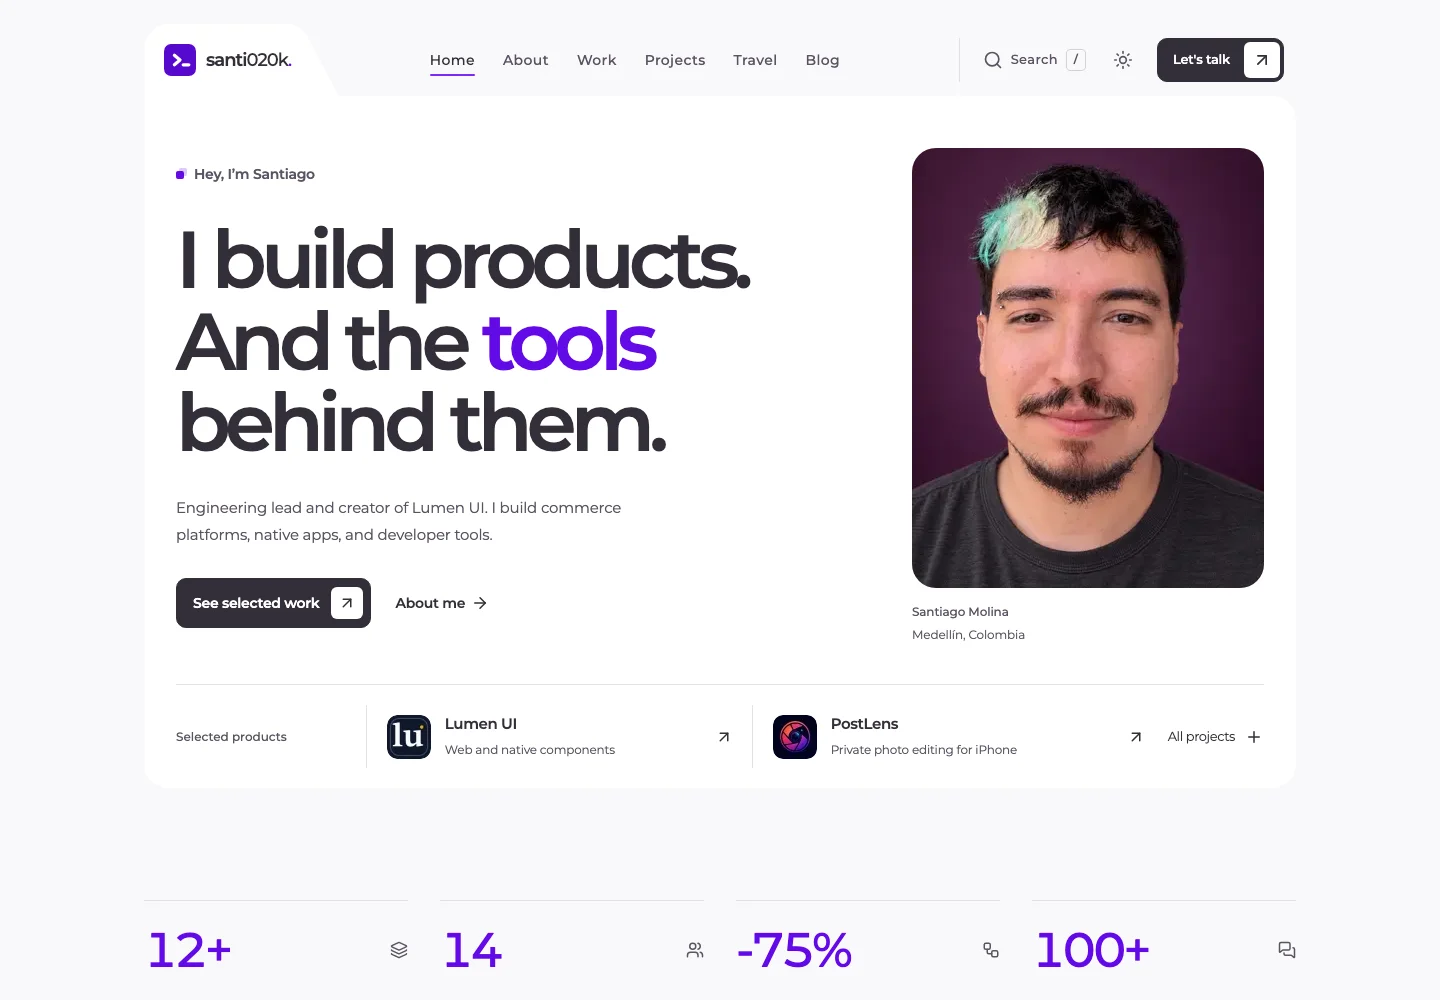
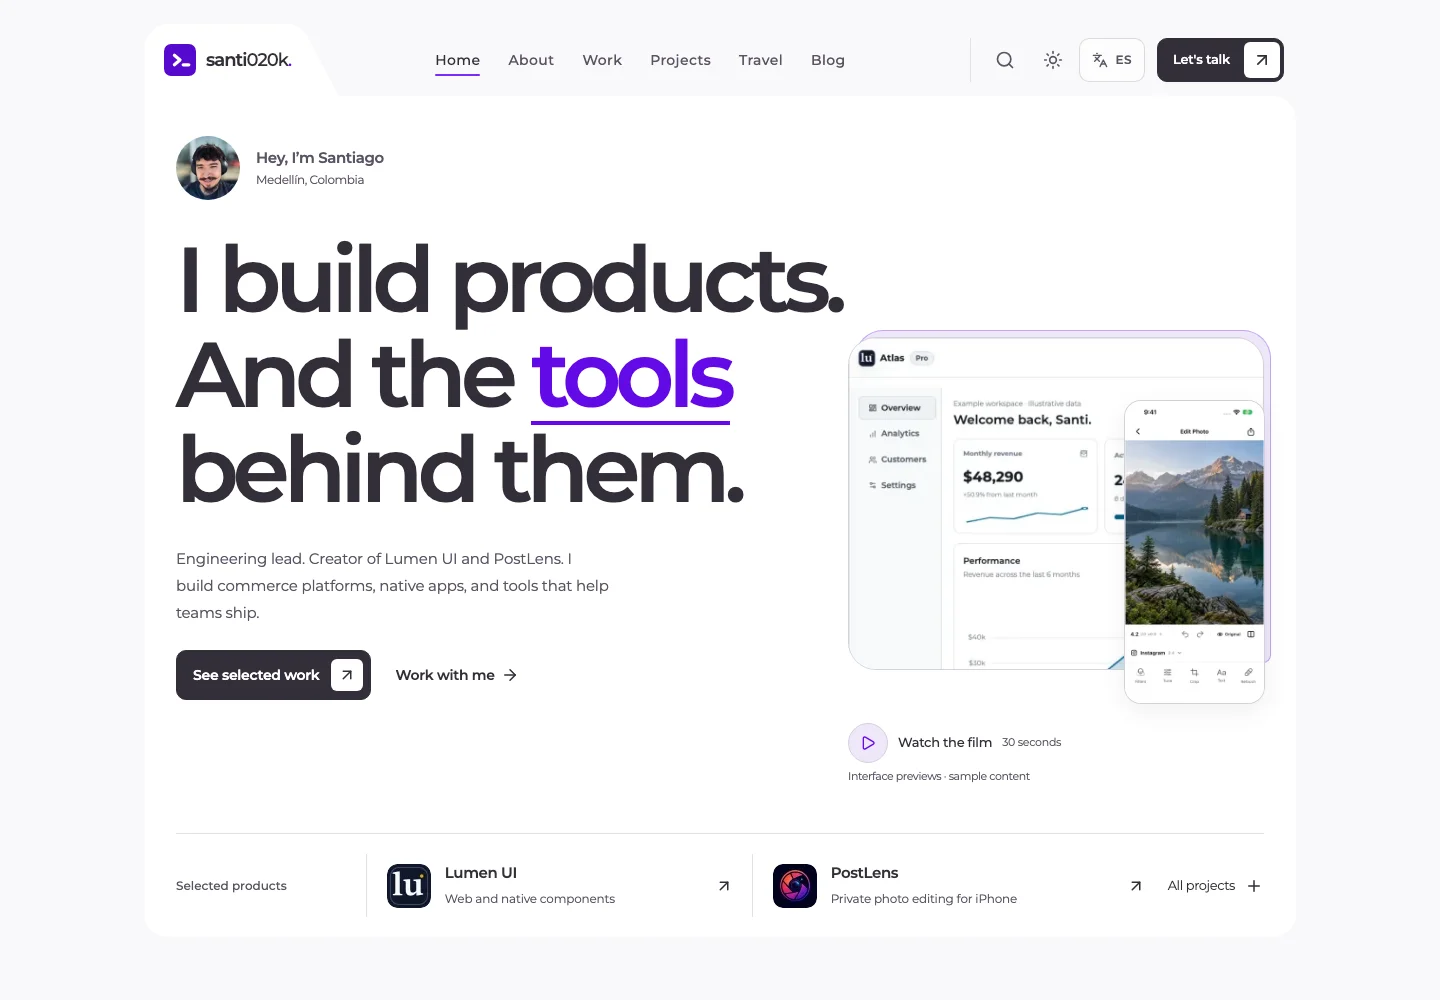
fix(history): refresh the current v5 homepage captures
Regenerate the Today desktop and mobile exhibits from the integrated v5 site.
Preserve every archived-era capture and verify the shared History motion assets.

diff --git a/docs/v5-release-readiness.md b/docs/v5-release-readiness.md
@@ -2939,3 +2939,19 @@ The responsive-audit owner will run canonical `pnpm run verify:fast` against thi
 exact committed candidate in its isolated checkout. The external consolidation
 report records that result and final Git containment after it completes. This
 handoff does not claim the aggregate result in advance. All work remains local.
+
+## Current History exhibit refresh (October 28)
+
+The final visual audit found that the Today exhibit still showed an earlier v5
+homepage. Ran the existing `history:screenshots` generator against the integrated
+local build and retained only its v5 desktop/mobile outputs. All eight archived
+era captures remain byte-identical. The current captures now include the approved
+portrait, product previews, film entry and latest navigation.
+
+The rebuilt History page passes 50 Chromium/WebKit cases, four whole-page
+accessibility scans and eight matched English/Spanish desktop/mobile captures.
+All nine motion checks pass with the refreshed shared exhibit assets. The current
+build/906-page SEO audit, PDF freshness and five unchanged PDF rasters pass.
+Evidence is in `.cache/v5-history-current/`. The full gate remains held for the
+new human-requested Lumen transition/Commitprompt film follow-up; the final
+combined commit will be validated before completion. Local only.

diff --git a/CHANGELOG.md b/CHANGELOG.md
@@ -340,6 +340,8 @@
 
 ### Patch Changes
 
+- Refresh the current v5 History captures to show the integrated homepage and navigation.
+
 - Keep navbar search icon-only and refine the language switch with an outlined control, translation icon, and responsive full-label menu link.
 
 - Use the current ESLint Config Basic hexagon-and-sliders project icon across the website and product films, and remove obsolete local logo files.
